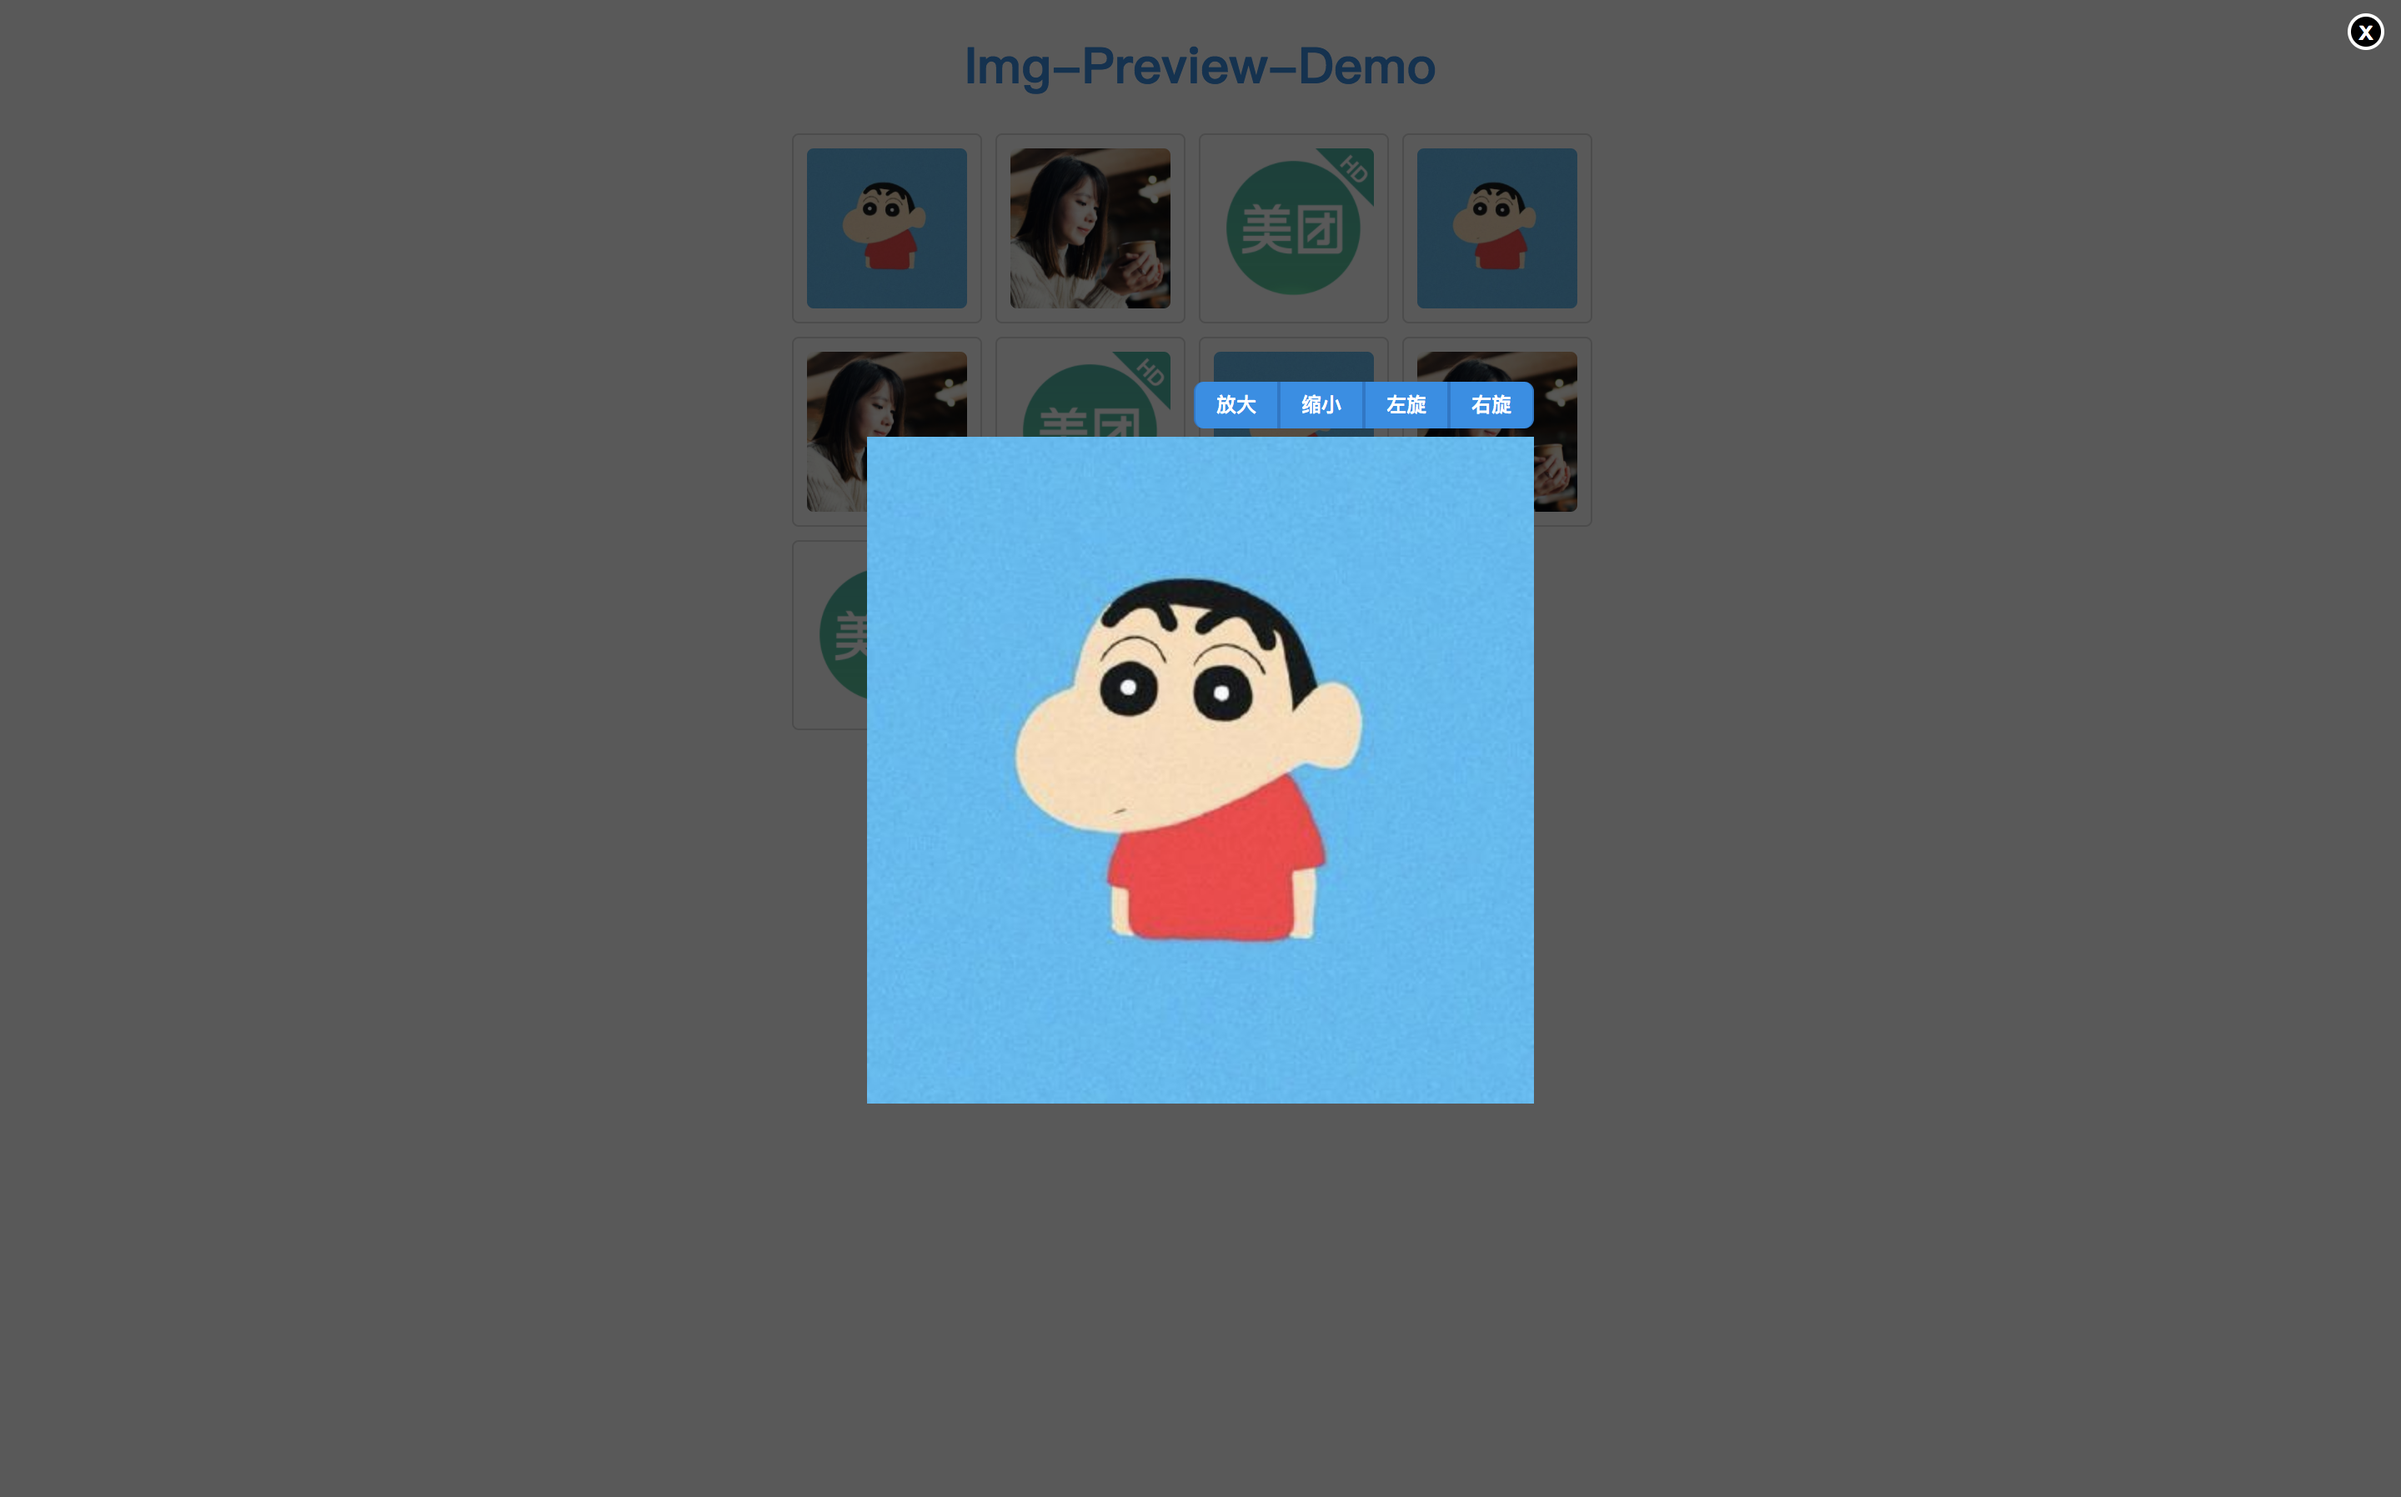
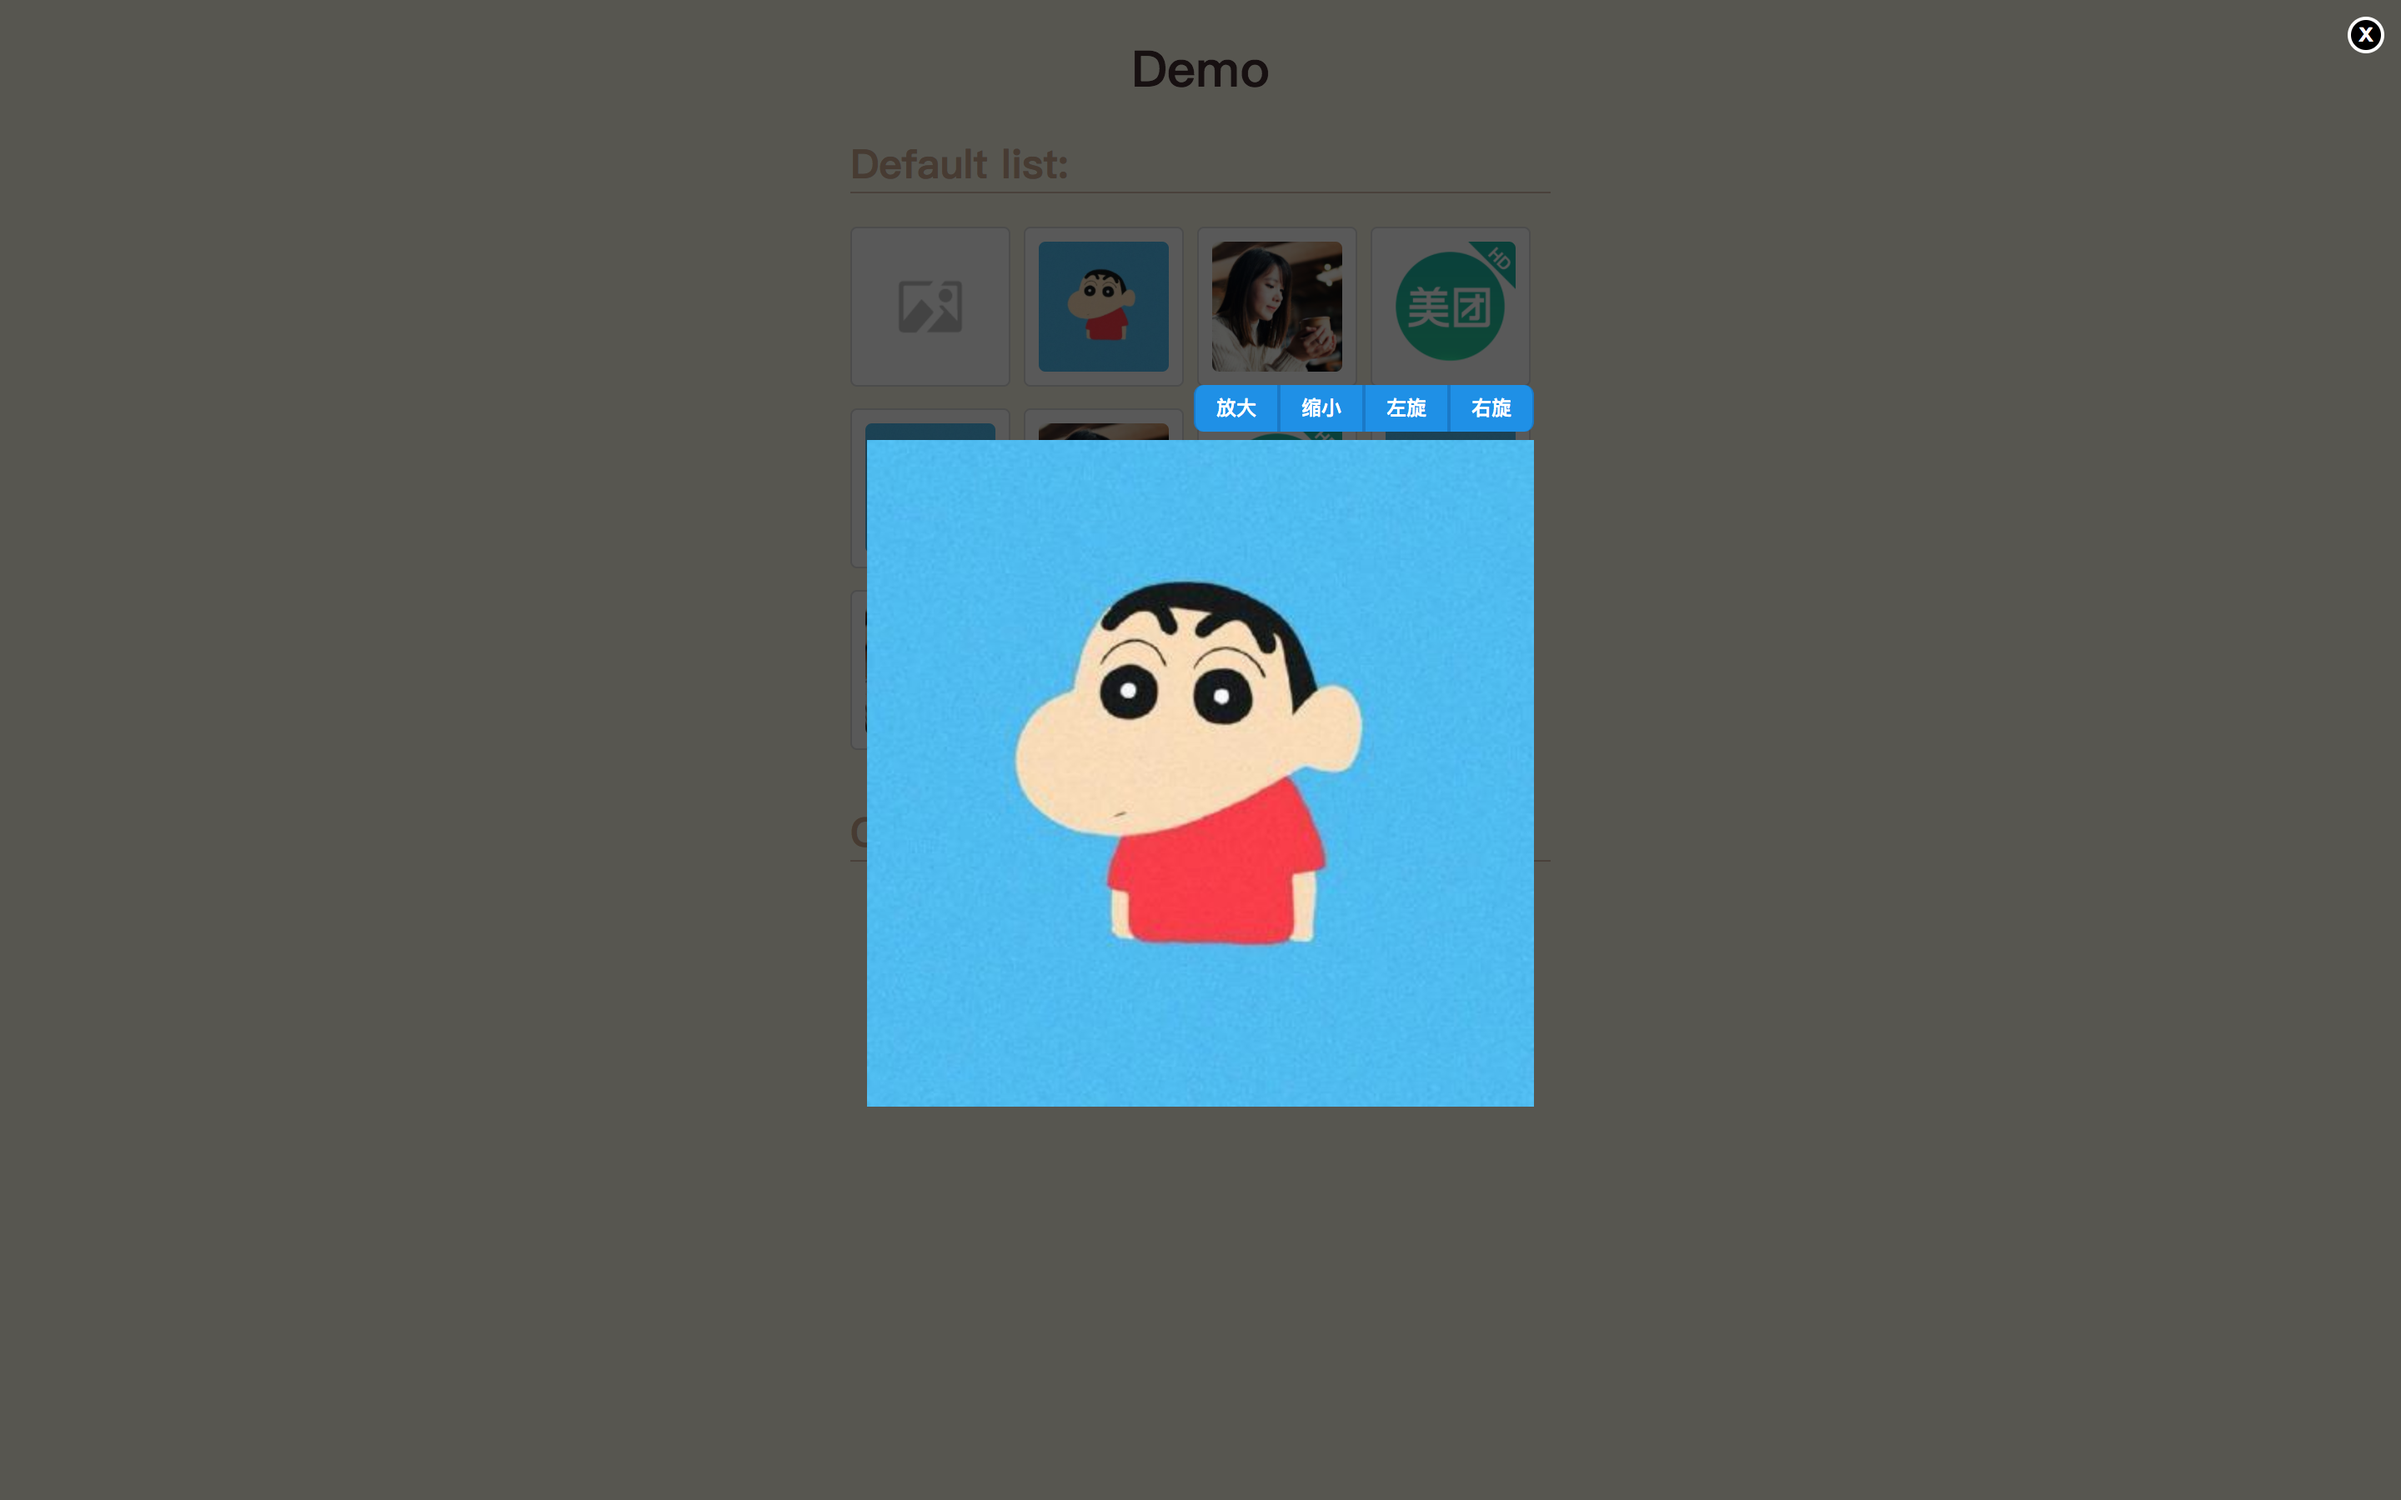
update demo

Changed region(s): [[0.3125, 0.0935, 0.6562, 0.7483], [0.4062, 0.0312, 0.5938, 0.0624], [0.9688, 0.0, 1.0, 0.0312]]

diff --git a/example/index.jsx b/example/index.jsx
@@ -6,6 +6,7 @@ const url = 'https://avatars2.githubusercontent.com/u/16834265?s=400&u=dd37eb4c2
 const url1 = 'https://zos.alipayobjects.com/rmsportal/jkjgkEfvpUPVyRjUImniVslZfWPnJuuZ.png'
 const url2 = 'http://is1.mzstatic.com/image/thumb/Purple3/v4/e8/28/d2/e828d25f-7c00-c5c5-1da6-82a70b05e75b/source/1024x1024sr.jpg'
 const url3 = 'https://timgsa.baidu.com/timg?image&quality=80&size=b9999_10000&sec=1512306639939&di=2ed72fe99a940fe06aeb8e96a5ae3ada&imgtype=0&src=http%3A%2F%2Ff.hiphotos.baidu.com%2Fzhidao%2Fpic%2Fitem%2Fae51f3deb48f8c5481fc87e03d292df5e1fe7fd5.jpg'
+// error url
 const url4 = 'xxxx'
 
 class ExamplePage extends Component {
@@ -16,36 +17,30 @@ class ExamplePage extends Component {
 
   render() {
     return (
-      <div style={{ width: '490px', margin: '0 auto' }}>
+      <div style={{ width: '420px', margin: '0 auto' }}>
         <h1 style={{
           fontSize: '30px',
-          color: '#108ee9',
+          color: '#442c31',
           textAlign: 'center',
           marginBottom: '20px',
         }}
         >
-          Img-Preview-Demo
+          Demo
         </h1>
 
-        <h2 style={{ color: '#6f5d4f' }}>default:</h2>
+        <h2 style={{ color: '#cba98d', borderBottom: '1px solid #d6baa9' }}>Default list:</h2>
 
         <ImgPreview src={[url4, url, url1, url2, url, url1, url2, url, url1, url2, url, url3]} />
 
-        <h2 style={{ color: '#6f5d4f' }}>customize:</h2>
+        <h2 style={{ color: '#cba98d', borderBottom: '1px solid #d6baa9' }}>Customized list:</h2>
 
         <ImgPreview
           src={[
-            {
-              url: url1,
-              name: '图片1',
-            },
-            {
-              url: url2,
-              name: '图片2',
-            },
+            { url: url1, name: '图片1' },
+            { url: url2, name: '图片2' },
           ]}
           render={t => (
-            <span style={{ marginLeft: '10px', color: 'rgb(16, 142, 233)', fontWeight: 'bolder' }}>
+            <span style={{ marginLeft: '10px', color: '#73433c', fontWeight: 'bolder', cursor: 'pointer' }}>
               {t.name}
             </span>
           )}

diff --git a/example/index.html b/example/index.html
@@ -4,7 +4,7 @@
 <meta name="viewport" content="width=device-width, initial-scale=1">
 <title>Img Preview Example</title>
 
-<body>
+<body style="background: #f8f5e4;">
   <div id="app"></div>
   <script src="/index.js"></script>
 </body>

diff --git a/assets/index.css b/assets/index.css
@@ -80,6 +80,7 @@
 
 .img-preview-list .img-item{
   position: relative;
+  background: #fff;
   border-radius: 4px;
   border: 1px solid #d9d9d9;
   display: inline-block;

diff --git a/README.md b/README.md
@@ -1,5 +1,7 @@
 # ImgPreview
+[![](https://img.shields.io/github/issues/wengwengweng/img-preview.svg)](https://github.com/wengwengweng/img-preview/issues)
 [![NPM version](https://img.shields.io/npm/v/img-preview.svg)](https://www.npmjs.com/package/img-preview)
+[![NPM downloads](https://img.shields.io/npm/dm/preview.svg?style=flat-square)](https://npmjs.org/package/img-preview)
 ## Introduce
 Picture preview components, click to full screen display, support for zoom in, drag and other operations.
 ## Install
